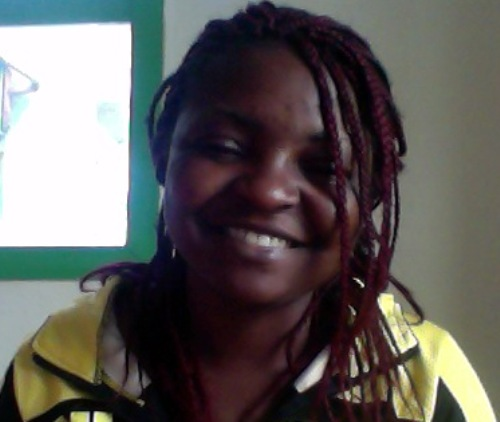
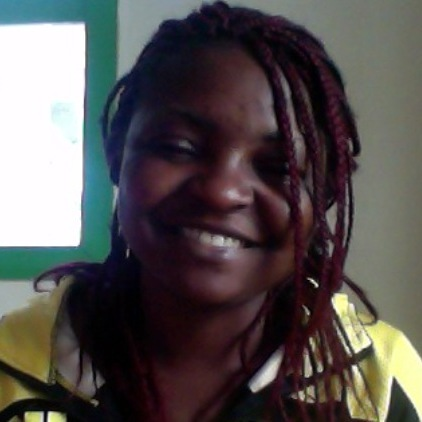
fixed some layout issues on team page, replace cecilia photo

diff --git a/team.html b/team.html
@@ -45,7 +45,7 @@
                 <span class="icon-bar"></span>
                 <span class="icon-bar"></span>
               </button>
-              <a class="navbar-brand" href="#">
+              <a class="navbar-brand" href="/">
                 Lumin Labs
               </a>
             </div>
@@ -74,10 +74,10 @@
       </div>
     </div>
 
-         <div class="container marketing">
+    <div class="container marketing" style="padding-top:80px;">
       <div class="section_header">
-                <h3>Our Services</h3>
-            </div>
+        <h3>Our Team</h3>
+      </div>
 
       <!-- Three columns of text below the carousel -->
        <div class="row">
@@ -136,85 +136,75 @@
             </div>
         </div>
 
-    <div class="row">
-        <div class="col-lg-6">
-          <div class="row">
-          <div class="col-lg-3"> <img class=" img img-profile img-circle" src="img/mavis.jpg"></div>
-
-          <div class="col-lg-9">
-             <div class="text">
-            <h2>Graphic Designer</h2>
-            <p class=""></p>
-            <p></p>
-          </div>
-          </div>
-        </div>
-        
-         
-        </div><!-- /.col-lg-4 -->
-
-        <div class="col-lg-6">
-        <div class="row">
-          <div class="col-lg-3"><img class="img img-profile img-circle" src="img/nah.jpg"></div>
-          <div class="col-lg-9">
-           <div class="text">
-            <h2>Graphic Designer</h2>
-            <p class=""></p>
-            <p></p>
-          </div>
-          </div>
-          </div>
-        </div><!-- /.col-lg-4 -->  
-         
-        
-      </div>
-   
-      
       <div class="row">
-        <div class="col-lg-6">
-        <div class="row">
-          <div class="col-lg-3"><img class="img img-profile img-circle" src="img/cynthia.jpg"></div>
-          <div class="col-lg-9">
-           <div class="text">
-            <h2>Marketing Consultant</h2>
-            <p class=""></p>
-            <p></p>
+          <div class="col-lg-6">
+            <div class="row">
+            <div class="col-lg-3"> <img class=" img img-profile img-circle" src="img/mavis.jpg"></div>
+
+            <div class="col-lg-9">
+               <div class="text">
+              <h2>Graphic Designer</h2>
+              <p class=""></p>
+              <p></p>
+            </div>
+            </div>
           </div>
-          </div>
-          </div>
-        </div>
-        
-        <div class="col-lg-6">
-        <div class="row">
-          <div class="col-lg-3"><img class="img img-profile img-circle" src="img/eric 2.jpg"></div>
-          <div class="col-lg-9">
-           <div class="text">
-            <h2>Software Consultant</h2>
-            <p class=""></p>
-            <p></p>
-          </div>
-          </div>
-          </div>
-        </div><!-- /.col-lg-4 -->  
-         
-     
-         
-        
+          
+           
+          </div><!-- /.col-lg-4 -->
+
+          <div class="col-lg-6">
+          <div class="row">
+            <div class="col-lg-3"><img class="img img-profile img-circle" src="img/nah.jpg"></div>
+            <div class="col-lg-9">
+             <div class="text">
+              <h2>Graphic Designer</h2>
+              <p class=""></p>
+              <p></p>
+            </div>
+            </div>
+            </div>
+          </div><!-- /.col-lg-4 -->  
       </div>
+       
+      <div class="row">
+          <div class="col-lg-6">
+          <div class="row">
+            <div class="col-lg-3"><img class="img img-profile img-circle" src="img/cynthia.jpg"></div>
+            <div class="col-lg-9">
+             <div class="text">
+              <h2>Marketing Consultant</h2>
+              <p class=""></p>
+              <p></p>
+            </div>
+            </div>
+            </div>
+          </div>
+          
+          <div class="col-lg-6">
+          <div class="row">
+            <div class="col-lg-3"><img class="img img-profile img-circle" src="img/eric 2.jpg"></div>
+            <div class="col-lg-9">
+             <div class="text">
+              <h2>Software Consultant</h2>
+              <p class=""></p>
+              <p></p>
+            </div>
+            </div>
+            </div>
+          </div><!-- /.col-lg-4 -->  
+      </div>
+
    
-
-    
-
-
-      <!-- FOOTER -->
-      <footer>
-        <div class="container marketing">
-        <p class="pull-right"><a href="#">Back to top</a></p>
-        <p>&copy; 2013 Lumin Labs</p>
-        </div>
-      </footer>
 
     </div><!-- /.container -->
+
+     <footer>
+      <div class="container marketing">
+        <p class="pull-right"><a href="#">Back to top</a></p>
+        <p>&copy; 2013 Lumin Labs</p>
+      </div>
+    </footer>
 
 
     <!-- Bootstrap core JavaScript

diff --git a/app.css b/app.css
@@ -69,7 +69,7 @@ color:orange;
 text-align:left;
 }
 .img-profile{
-	max-width: 150px;
+	max-width: 100px;
 	
 }
 
@@ -163,6 +163,7 @@ margin: 0;
 
 footer{
 	padding: 40px 0;
+	margin-top: 40px;
 	background-color: #777;
 	color:#fff;
 }
